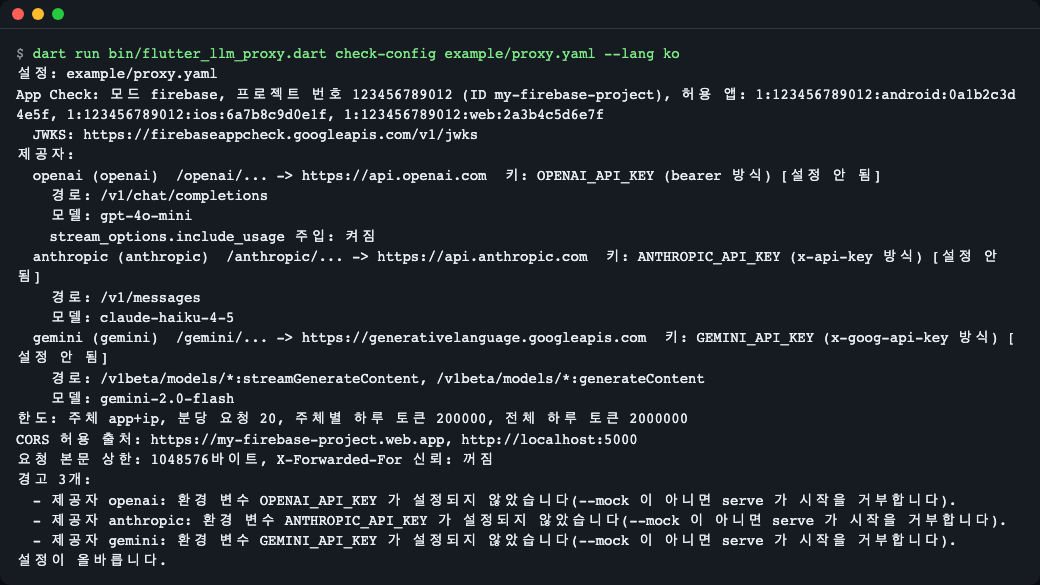
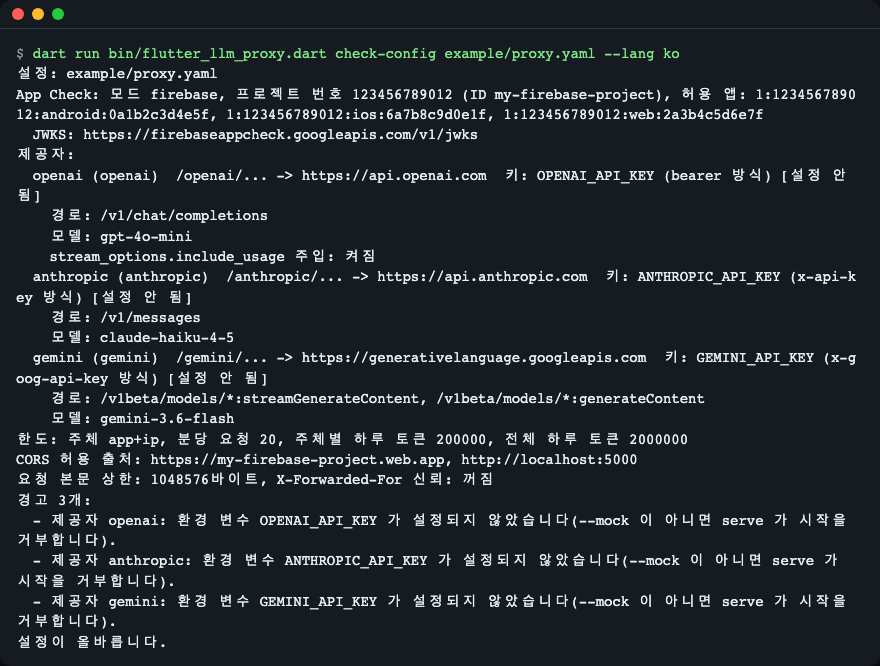
fix(example): replace retired Gemini model in example config
The example proxy.yaml named a retired Gemini 2.0 Flash model. Use gemini-3.6-flash, refresh screenshots, and bump to 0.1.1.

Changed region(s): [[0.0, 0.0, 0.9818, 0.9846], [0.7057, 0.0615, 0.767, 0.0923]]

diff --git a/test/version_test.dart b/test/version_test.dart
@@ -12,8 +12,9 @@ void main() {
         loadYaml(File('pubspec.yaml').readAsStringSync()) as YamlMap;
     expect(pubspec['version'], packageVersion);
     final changelog = File('CHANGELOG.md').readAsStringSync();
-    final first =
-        RegExp(r'^## (\S+)', multiLine: true).firstMatch(changelog)!.group(1);
+    final first = RegExp(r'^## (?!Unreleased)(\S+)', multiLine: true)
+        .firstMatch(changelog)!
+        .group(1);
     expect(first, packageVersion);
   });
 }

diff --git a/test/proxy_forwarding_test.dart b/test/proxy_forwarding_test.dart
@@ -125,7 +125,7 @@ void main() {
       () {
     const p = '/v1beta/models/*:streamGenerateContent';
     expect(
-        pathAllowed(p, '/v1beta/models/gemini-2.0-flash:streamGenerateContent'),
+        pathAllowed(p, '/v1beta/models/gemini-3.6-flash:streamGenerateContent'),
         isTrue);
     expect(pathAllowed(p, '/v1beta/models/a/b:streamGenerateContent'), isFalse);
     expect(pathAllowed(p, '/v1beta/models/..%2Ffiles:streamGenerateContent'),

diff --git a/lib/src/version.dart b/lib/src/version.dart
@@ -1,2 +1,2 @@
 /// 패키지 버전 — `pubspec.yaml` 의 `version` 과 같아야 한다(test/version_test.dart 가 확인).
-const String packageVersion = '0.1.0';
+const String packageVersion = '0.1.1';

diff --git a/README.ko.md b/README.ko.md
@@ -27,7 +27,7 @@ dart run bin/flutter_llm_proxy.dart --version
 ```
 
 ```text
-flutter_llm_proxy 0.1.0
+flutter_llm_proxy 0.1.1
 ```
 
 ## 빠르게 시작하기 (키·Firebase·네트워크 없이)

diff --git a/CHANGELOG.md b/CHANGELOG.md
@@ -1,5 +1,9 @@
 # Changelog
 
+## 0.1.1
+
+- Example config: replace the retired Gemini 2.0 Flash model with `gemini-3.6-flash` and link provider deprecation pages.
+
 ## 0.1.0
 
 First release.

diff --git a/README.md b/README.md
@@ -27,7 +27,7 @@ dart run bin/flutter_llm_proxy.dart --version
 ```
 
 ```text
-flutter_llm_proxy 0.1.0
+flutter_llm_proxy 0.1.1
 ```
 
 ## Quick start (no key, no Firebase, no network)
